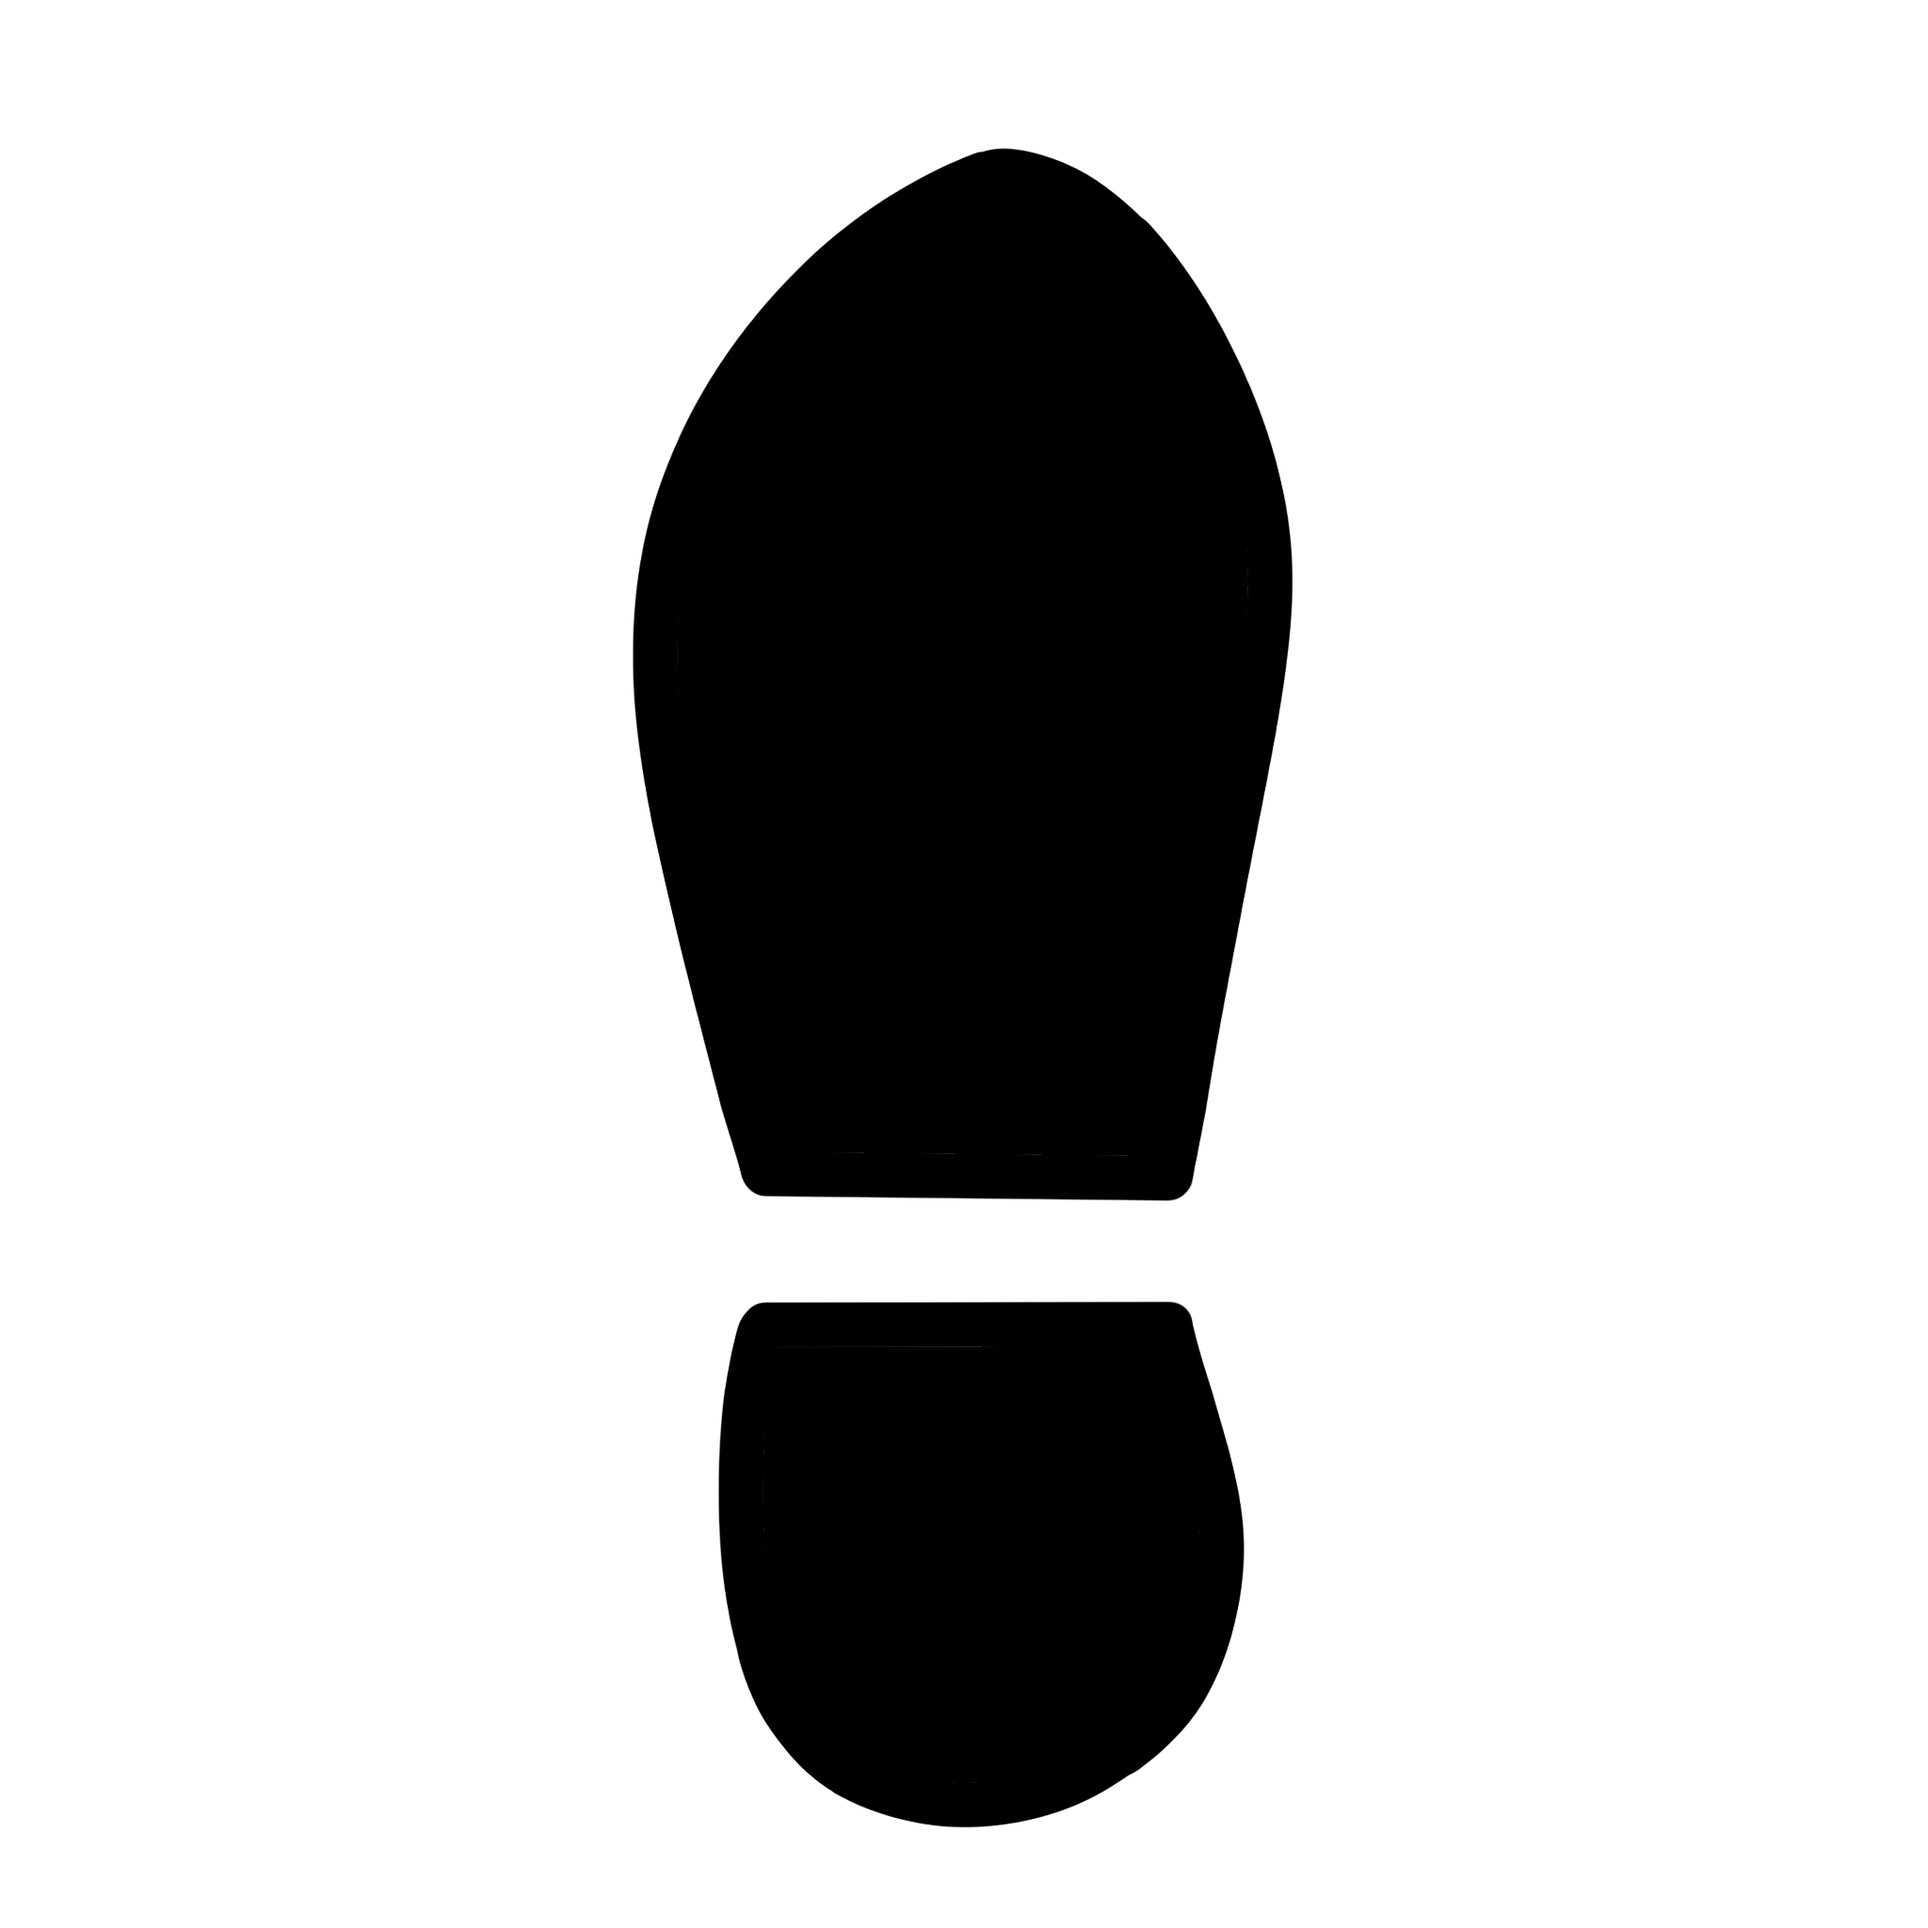
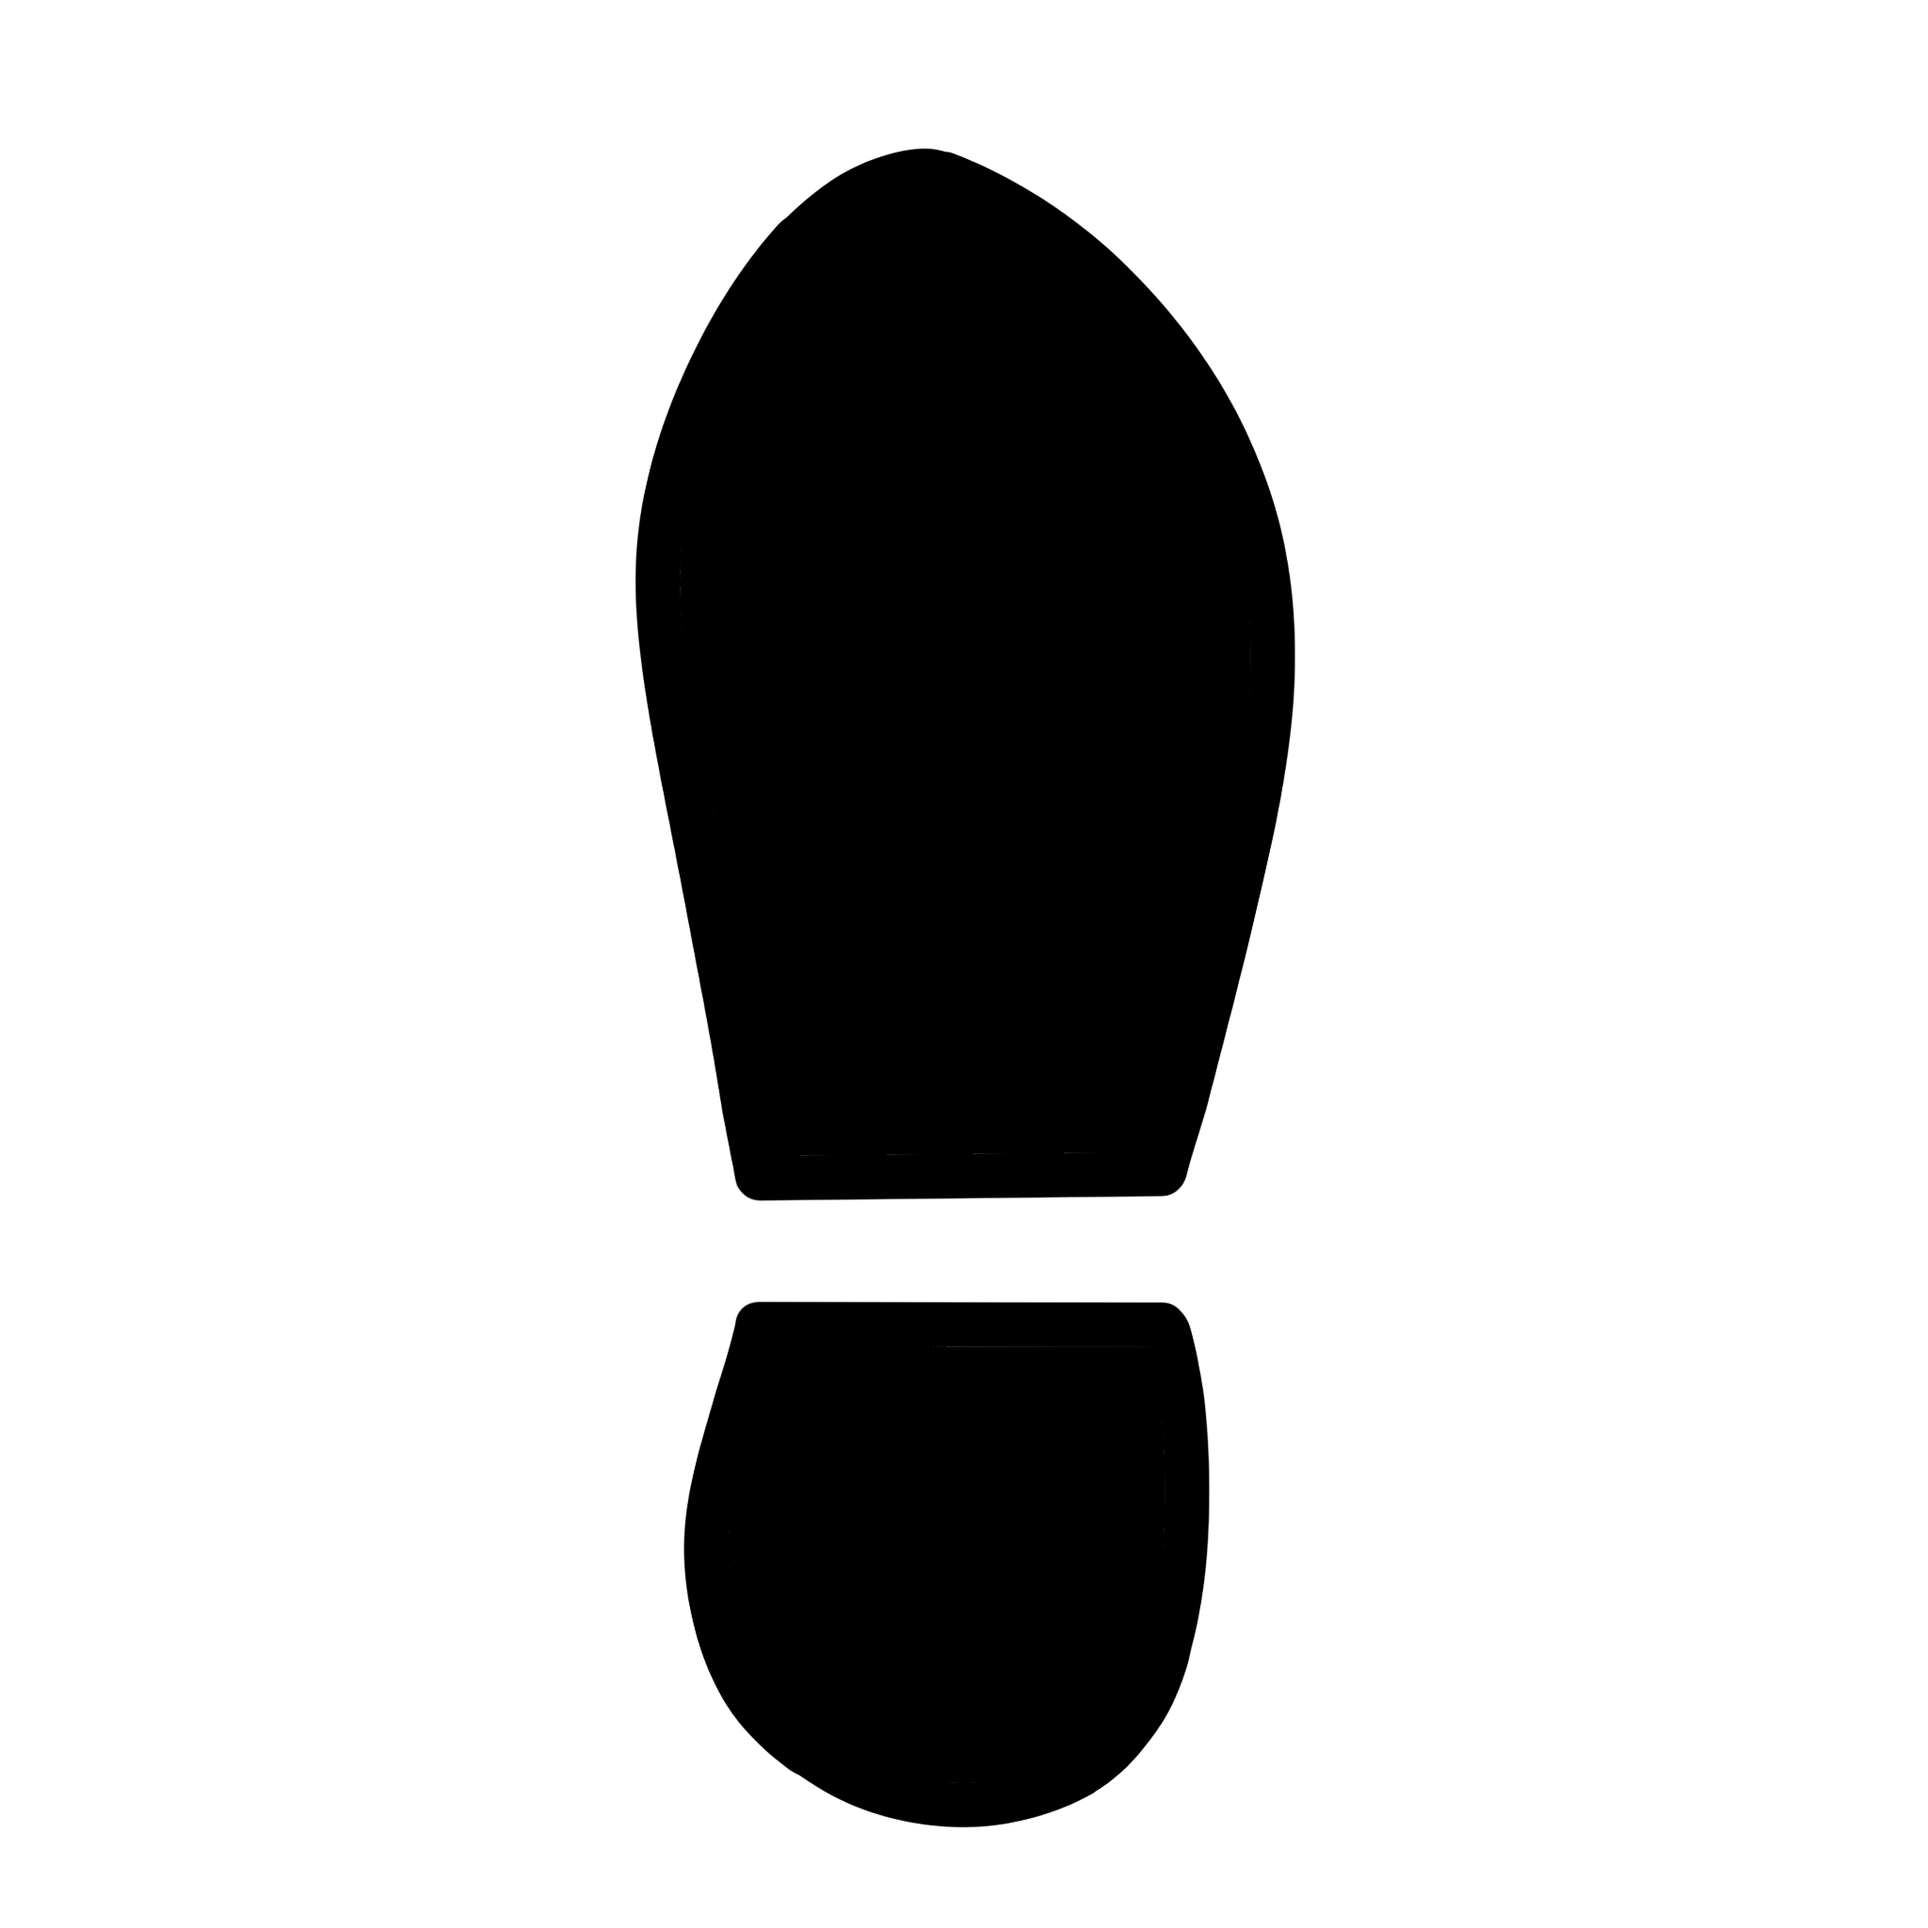
Footprint misalignment fixed

diff --git a/scripts/footprints.js b/scripts/footprints.js
@@ -15,7 +15,10 @@ let isLeftFoot = false;
 // isLeftFoot = !isleftFoot;
 
 // "어느정도거리" 움직였을때 찍고싶은데?
-const STEP = 30;
+const STEP = 45;
+// 좌우 발 간격
+const DIST = 10;
+
 
 
 // atan2
@@ -40,20 +43,26 @@ document.addEventListener("mousemove", (event) => {
     let dx = x - lastX;
     let dy = y - lastY;
     let dist = Math.sqrt(dx * dx + dy * dy);
-    let deg = Math.atan2(dy, dx) * (180/Math.PI) + 90;
+    let deg = Math.atan2(dy, dx) * (180/Math.PI) + 90; // mouse방향
 
     if (dist < STEP) return;
 
+    // 내가 가는 방향
+    let angle = deg * (Math.PI/180);
+    //let side = right일때는 DIST만큼 움직이고, left일때는 -DIST만큼
+    let side = isLeftFoot ? DIST : -DIST
+    let px = x + (side*Math.cos(angle))
+    let py = y + (side*Math.sin(angle))
+
     // Creates and adds the shoe into the page.
     const shoe = document.createElement("img");
-    shoe.src = "/assets/images/leftshoeprint.png"; // 검토, right foot print
+    shoe.src = "/assets/images/rightshoeprint.png"; // 검토, right foot print
     shoe.classList.add("footprint")
-    shoe.style.top = y + "px";
-    shoe.style.left = x + "px";    
+    shoe.style.top = py + "px";
+    shoe.style.left = px + "px";    
     shoe.style.rotate = deg + "deg"; 
     if(!isLeftFoot) {
         shoe.style.transform = 'scaleX(-1)'; // flip horizontally
-        //shoe.style.left = 
     }
 
     document.body.appendChild(shoe);     
@@ -61,7 +70,8 @@ document.addEventListener("mousemove", (event) => {
 
     
     // 찍은 발자국 삭제
-    setTimeout(()=> {shoe.remove()}, 300);
+    setTimeout(()=> {
+        shoe.remove()}, 4000);
 
     lastX = x;
     lastY = y;

diff --git a/styles/global.css b/styles/global.css
@@ -79,8 +79,21 @@ a {
 }
 
 .footprint {
-  width: 20px;
+  width: 30px;
   height: auto;
   position: fixed;
   left: 500px;
+  animation-name: footFade;
+  animation-duration: 0.7s;
+  animation-fill-mode: forwards;
+  translate: -50% -50%; 
+}
+
+
+
+@keyframes footFade {
+  0% {opacity: 1;}
+  30% {opacity: 0.9}
+  65% {opacity: 0.7}
+  100% {opacity: 0;}
 }
